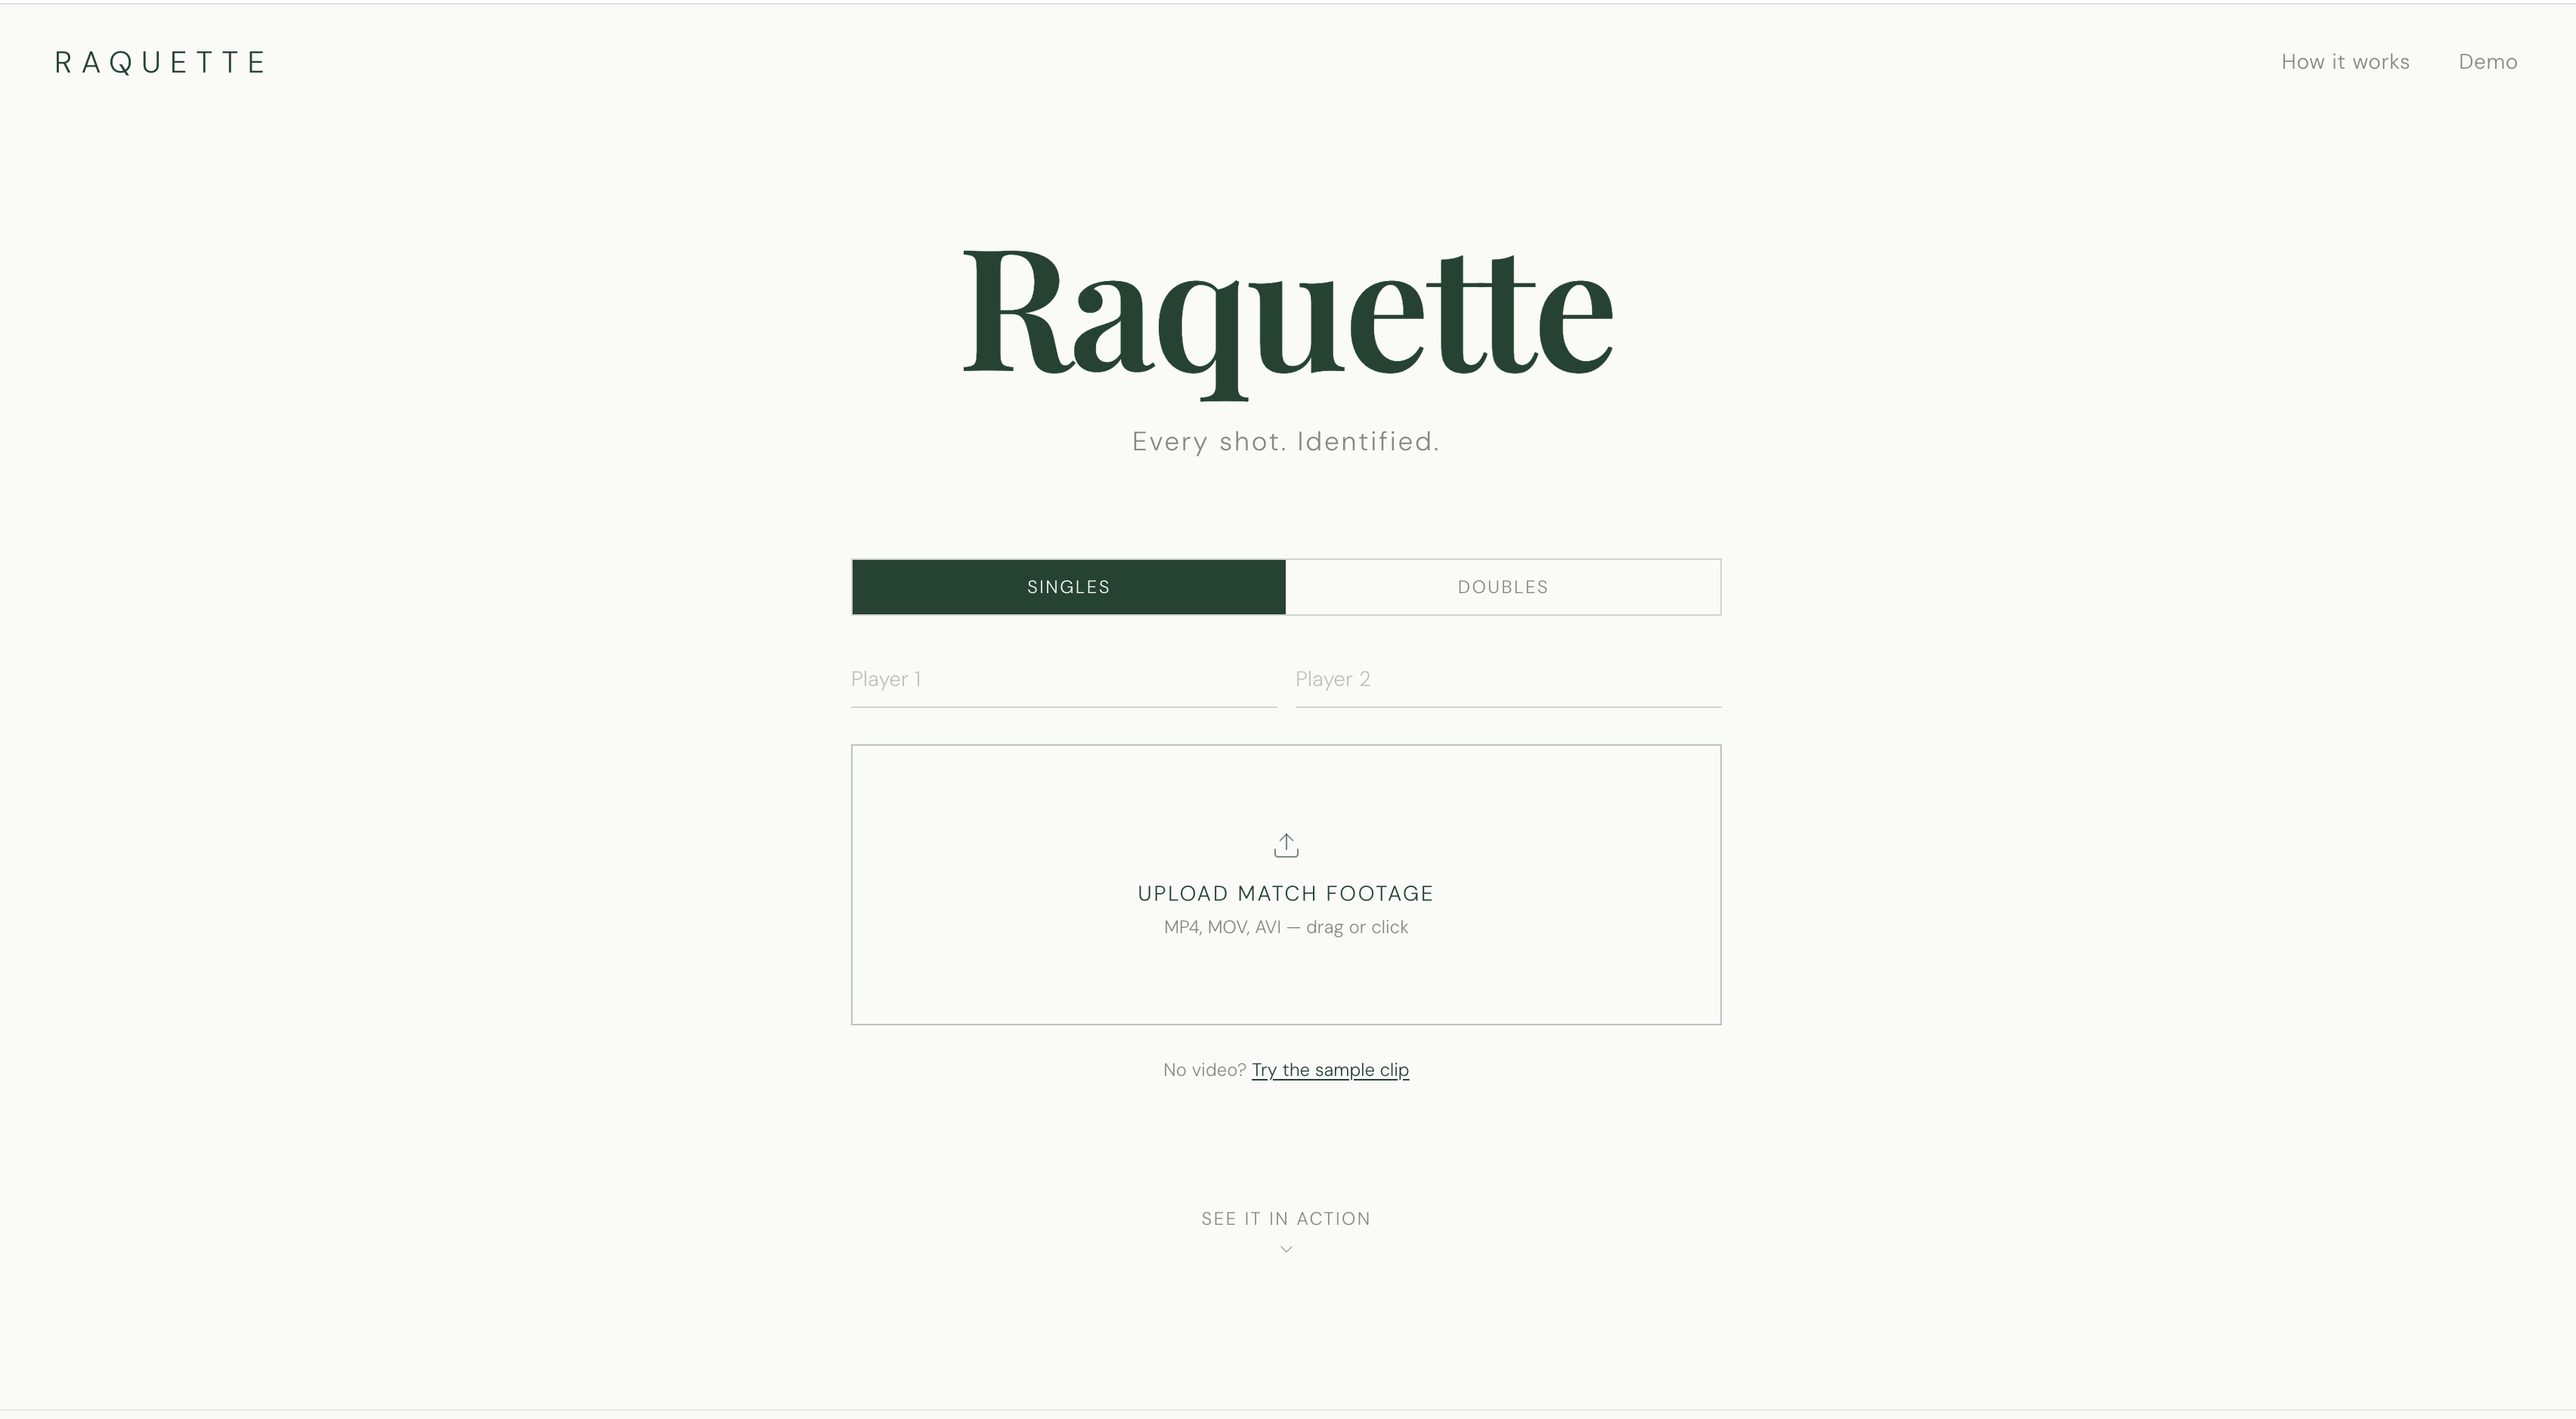
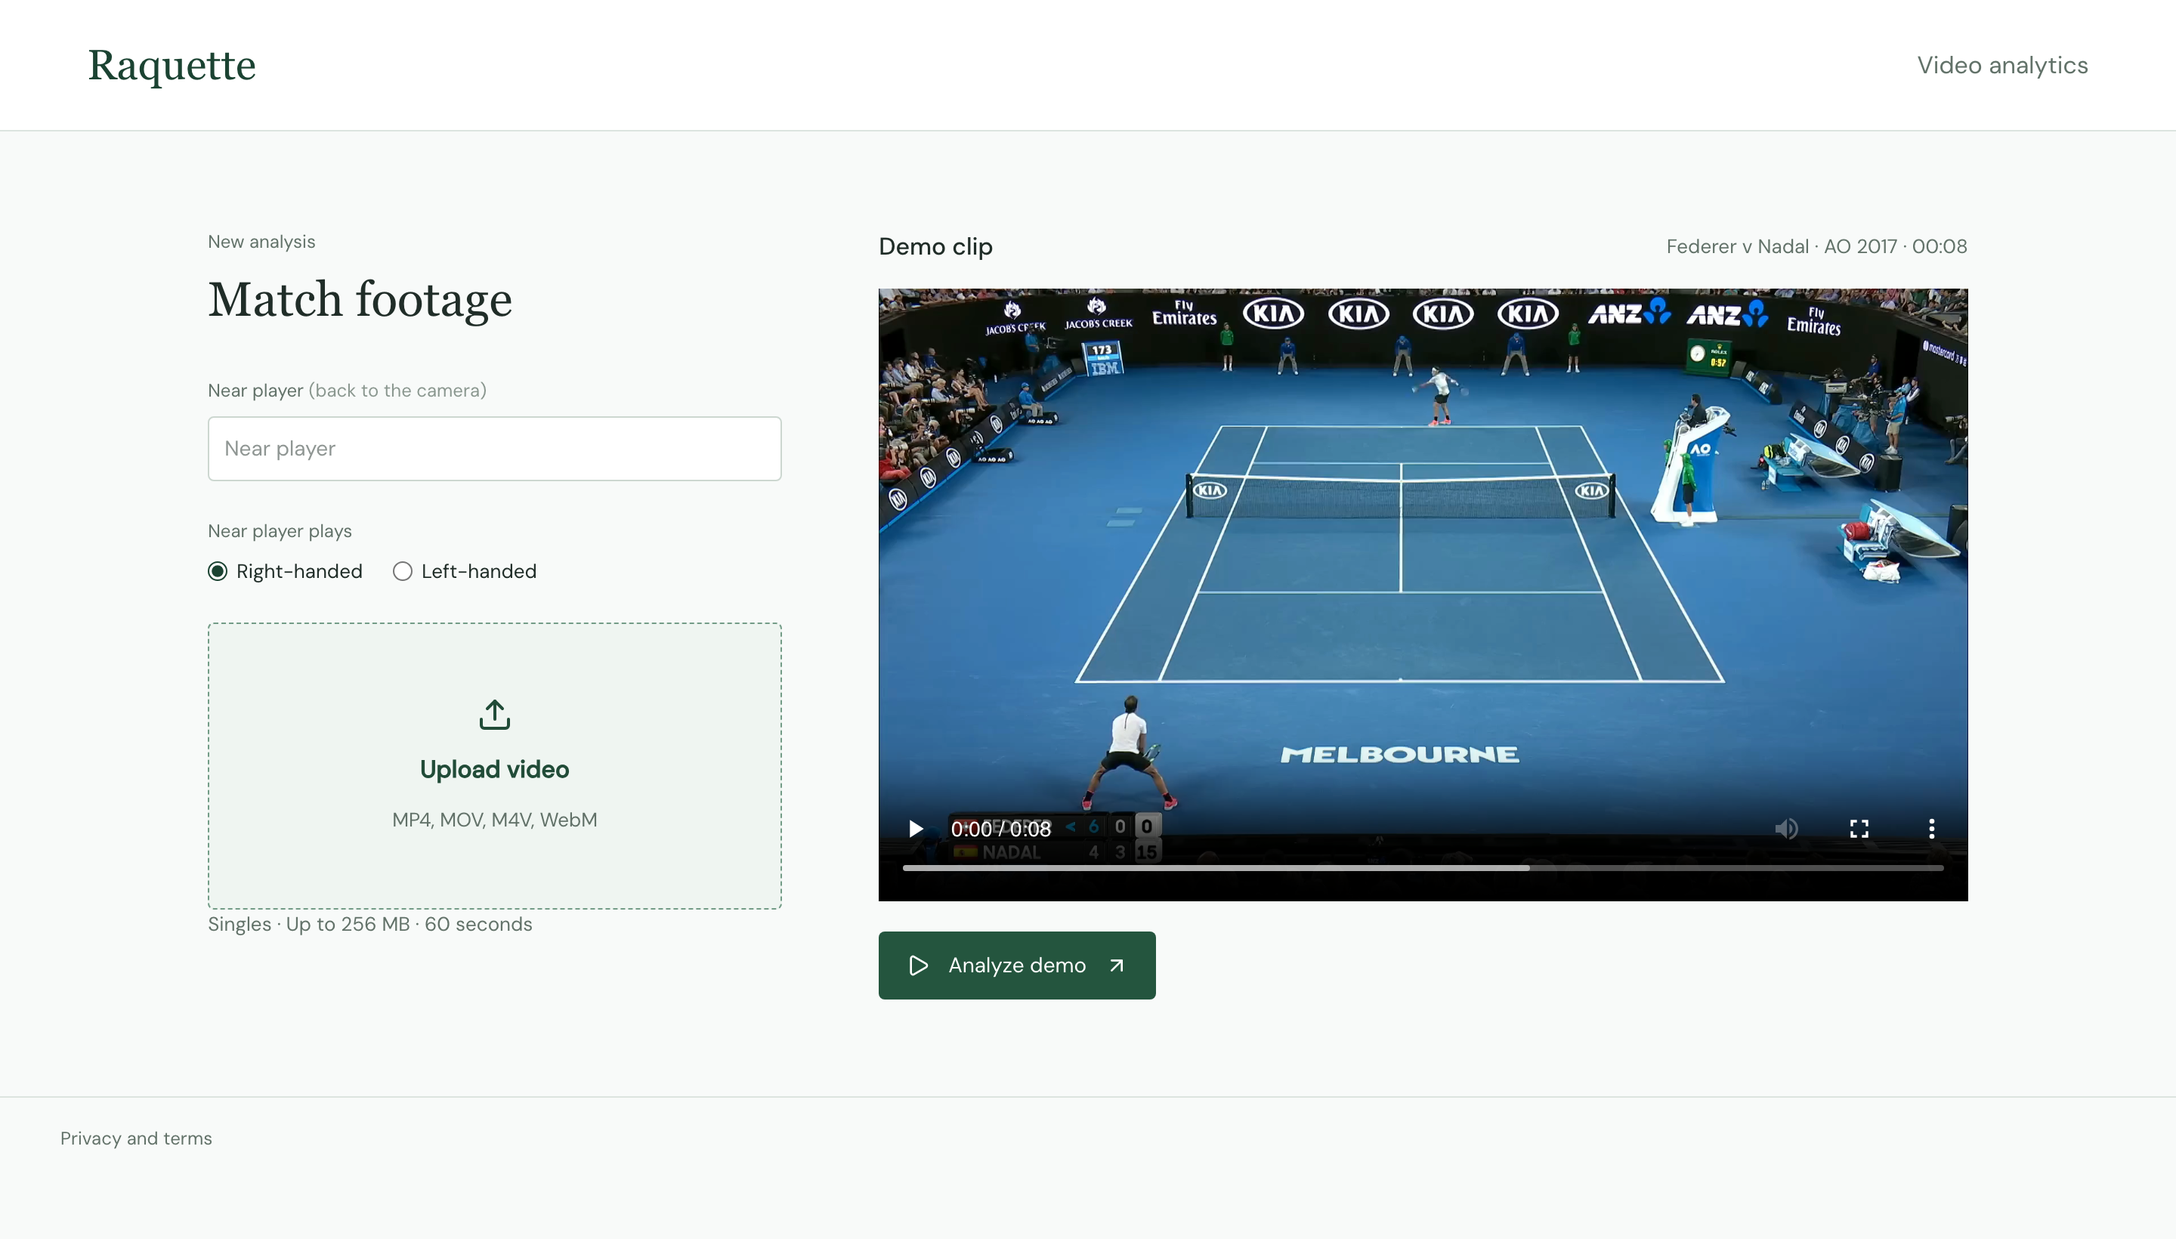
Update README screenshots, plainer demo note, remove dashes from comments

diff --git a/frontend/src/index.css b/frontend/src/index.css
@@ -42,7 +42,7 @@ html, body {
 .name-fields input { display: block; width: 100%; border: 1px solid #ccd7d0; background: white; border-radius: 4px; padding: 10px; margin-top: 8px; color: #202d28; font-size: 14px; }
 .site-footer { border-top: 1px solid #dce4df; padding: 18px 40px 28px; font-size: 12px; }.site-footer a { color: #627269; text-decoration: none; }.site-footer a:hover { color: #1B4332; text-decoration: underline; }
 @media (max-width: 680px) { .site-footer { padding: 16px 20px 24px; } }
-.demo-note { font-size: 12px; line-height: 1.5; color: #6b5a2a; background: #fbf6e8; border-left: 2px solid #b8962e; padding: 8px 12px; margin: 10px 0 0; }.demo-note a { color: #1B4332; }
+.demo-line { margin-top: 4px; }.demo-line a { color: #1B4332; }
 .name-fields.single { grid-template-columns: minmax(0, 1fr); }.field-hint { color: #8a978f; }
 .handedness { border: 0; padding: 0; margin: 0 0 24px; display: flex; gap: 20px; align-items: center; font-size: 13px; color: #202d28; }
 .handedness legend { font-size: 12px; color: #627269; margin-bottom: 8px; padding: 0; }

diff --git a/frontend/src/pages/Landing.jsx b/frontend/src/pages/Landing.jsx
@@ -57,7 +57,7 @@ export default function Landing() {
           <Upload size={24} /><strong>{busy ? 'Uploading...' : 'Upload video'}</strong><span>MP4, MOV, M4V, WebM</span>
         </button>
         <p className="muted small">Singles · Up to 256 MB · {server.max_duration_seconds} seconds</p>
-        {server.demo && <p className="demo-note">Free demo server: expect about 1.5 minutes of processing per second of video. <a href="https://github.com/LightAnd2/raquette#run-it-locally">Run Raquette locally</a> for full speed and longer clips.</p>}
+        {server.demo && <p className="muted small demo-line">This free demo is slow, about 1.5 minutes per second of video. <a href="https://github.com/LightAnd2/raquette#run-it-locally">Run it locally</a> for full speed.</p>}
         {error && <p role="alert" className="error-message">{error}</p>}
       </section>
       <section className="sample-section"><div className="section-heading"><h2>Demo clip</h2><span className="muted small">Federer v Nadal · AO 2017 · 00:08</span></div>

diff --git a/frontend/src/pages/Results.jsx b/frontend/src/pages/Results.jsx
@@ -77,6 +77,12 @@ function Playback({ data }) {
       handle = element.requestVideoFrameCallback(frame)
     }
     if (element.requestVideoFrameCallback) handle = element.requestVideoFrameCallback(frame)
+    // ?t=1.5 opens the results at that moment, e.g. to share a specific shot.
+    const start = Number(new URLSearchParams(window.location.search).get('t'))
+    if (start > 0) {
+      element.currentTime = start
+      setTime(start)
+    }
     return () => { if (handle) element.cancelVideoFrameCallback(handle) }
   }, [])
   const players = nearest(data.player_track, time, .13)?.players || []
